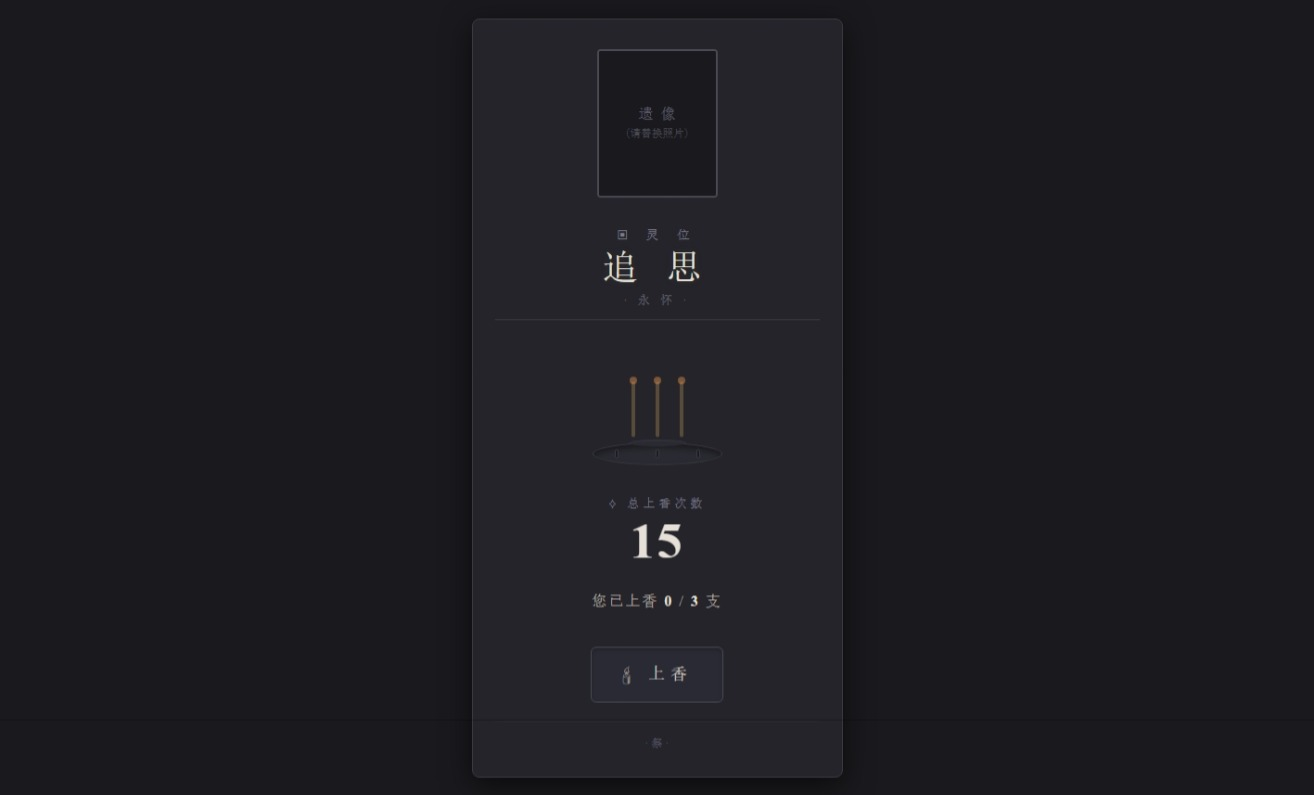
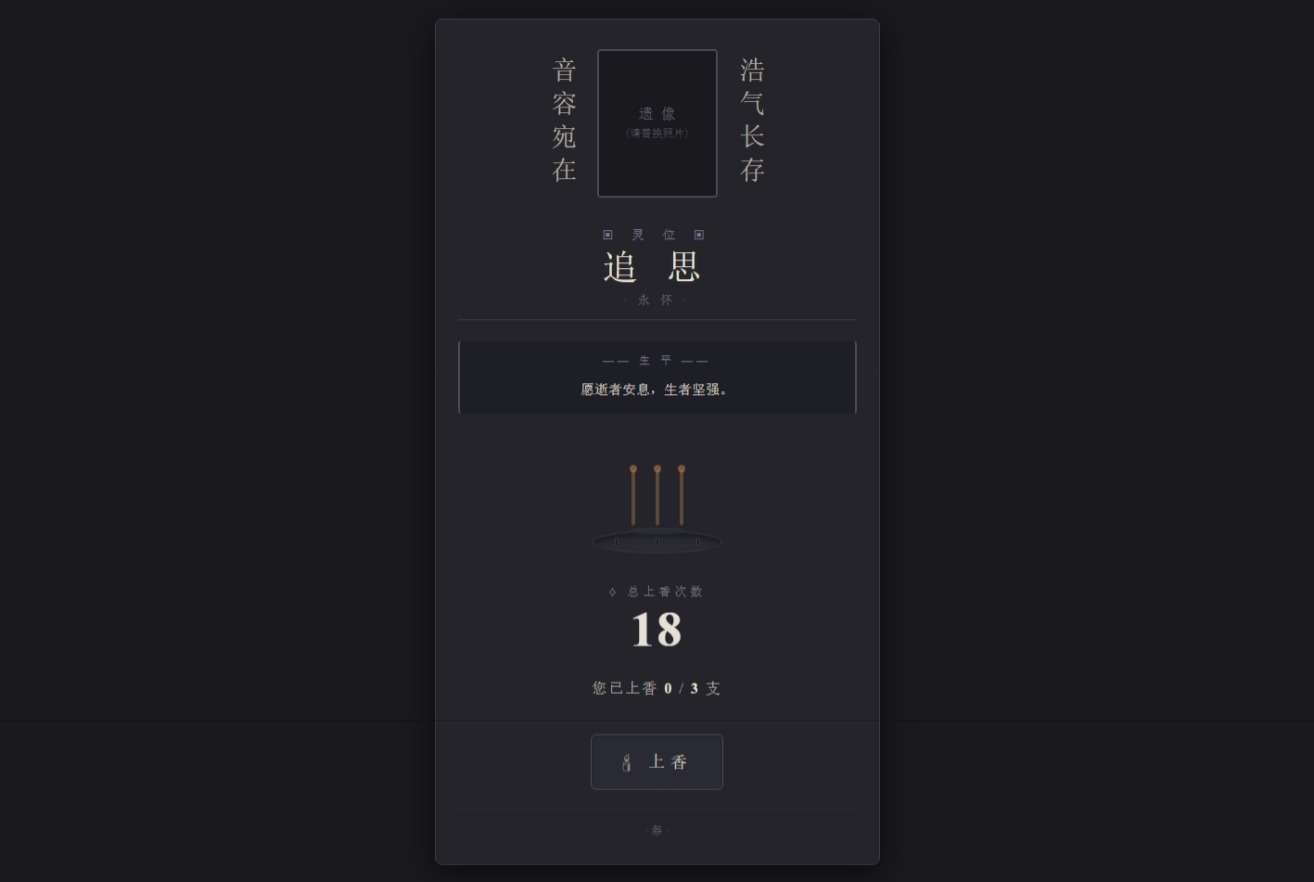
修改README

diff --git a/README.md b/README.md
@@ -14,11 +14,27 @@
 - **牌位文字**：修改 `<div class="name">追思</div>` 和 `<div class="sub">· 永怀 ·</div>` 的内容。
 - **标题**：修改 `<title>` 标签。
 
-### ⚙ 环境变量配置
+### ⚙ 环境变量 & KV 配置说明
+
+#### 环境变量（在 Cloudflare Worker 设置中添加）
 
 | 变量名 | 描述 | 默认值 |
 |--------|------|--------|
 | `MAX_USER_INCENSE` | 每位用户最多可上香的次数 | `3` |
+| `BIOGRAPHY` | 逝者生平（支持 `\n` 换行） | `愿逝者安息，生者坚强。` |
+| `EPITAPH_LEFT` | **左侧挽联**（观者左手边，即下联） | `音容宛在` |
+| `EPITAPH_RIGHT` | **右侧挽联**（观者右手边，即上联） | `浩气长存` |
+
+#### KV 存储（可选，优先级高于环境变量）
+
+| KV 键名 | 描述 |
+|---------|------|
+| `biography` | 生平文本（支持换行） |
+| `epitaph_left` | 左侧挽联内容 |
+| `epitaph_right` | 右侧挽联内容 |
+
+> 💡 **优先级**：KV > 环境变量 > 默认值
+
 
 ## 屏幕截图 Screenshot
 
